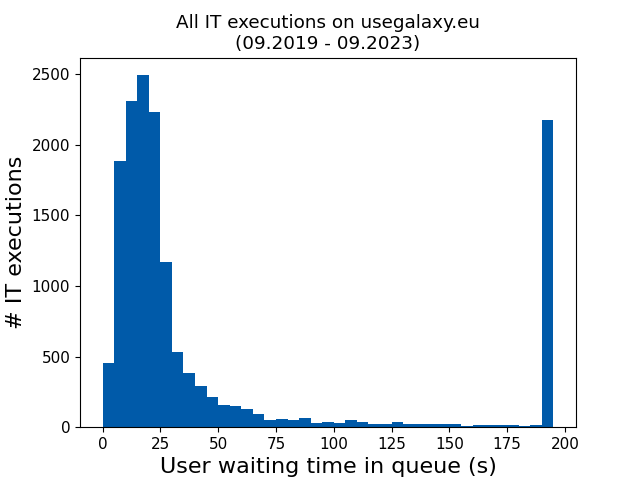
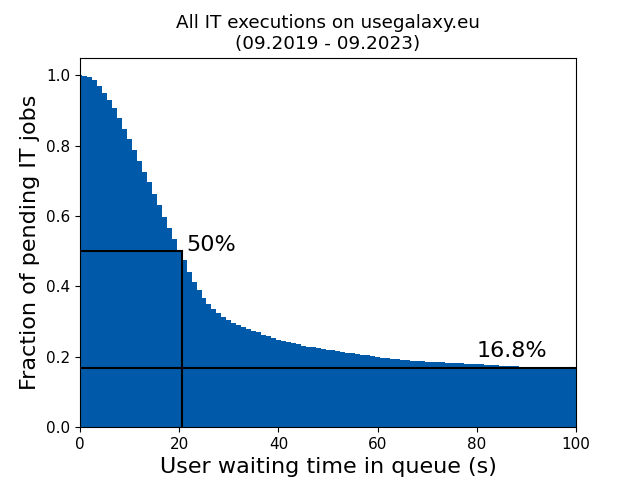
polished explanation regarding >200swaiting time

Changed region(s): [[0.0, 0.125, 0.9375, 0.9375], [0.2188, 0.9062, 0.375, 0.9375], [0.4062, 0.9062, 0.4688, 0.9375]]

diff --git a/content/news/2023-08-15-ITs/index.md b/content/news/2023-08-15-ITs/index.md
@@ -47,7 +47,8 @@ Galaxy ITs can be integrated into a "traditional" workflow, with the possibility
 
 ## Updates from usegalaxy.eu
 
-Within the four-year time window between September 2019 and August 2023, our public instance, [live.usegalaxy.eu](https://live.usegalaxy.eu), already had served 21801 IT jobs executions. A coarse look into the job statistics suggests that the typical availability of the system was not very different than that of a user-owned local system. Thanks to the availability of computing resources dedicated to IT executions in our cloud, users usually did not need to wait more than 30s after realising their need and spinning up an IT instance. This excludes the technical issues that we experienced in the recent past and now resolved, which meant we were unable to provide the resources within a few days.
+Within the four-year time window between September 2019 and August 2023, our public instance, [live.usegalaxy.eu](https://live.usegalaxy.eu), already had served 21801 IT jobs executions. A coarse look into the job statistics suggests that the typical availability of the system was not very different than that of a user-owned local system. Thanks to the availability of computing resources dedicated to IT executions in our cloud, users usually did not need to wait much after realising their need and spinning up an IT instance: half of the requests began within 21s, whereas 83.2% were ready for research use within 100s. To ensure the fair distribution of limited resources, we implement user- and system-wide quotas on the number of simultaneous IT instances, which might delay the provision of requested ITs, as well as occasional system maintenance or outages.
+
 
 ![Histogram of waiting time of all IT job requests as experienced by users, 2019-2023](./figs/waiting_time.png)
 
